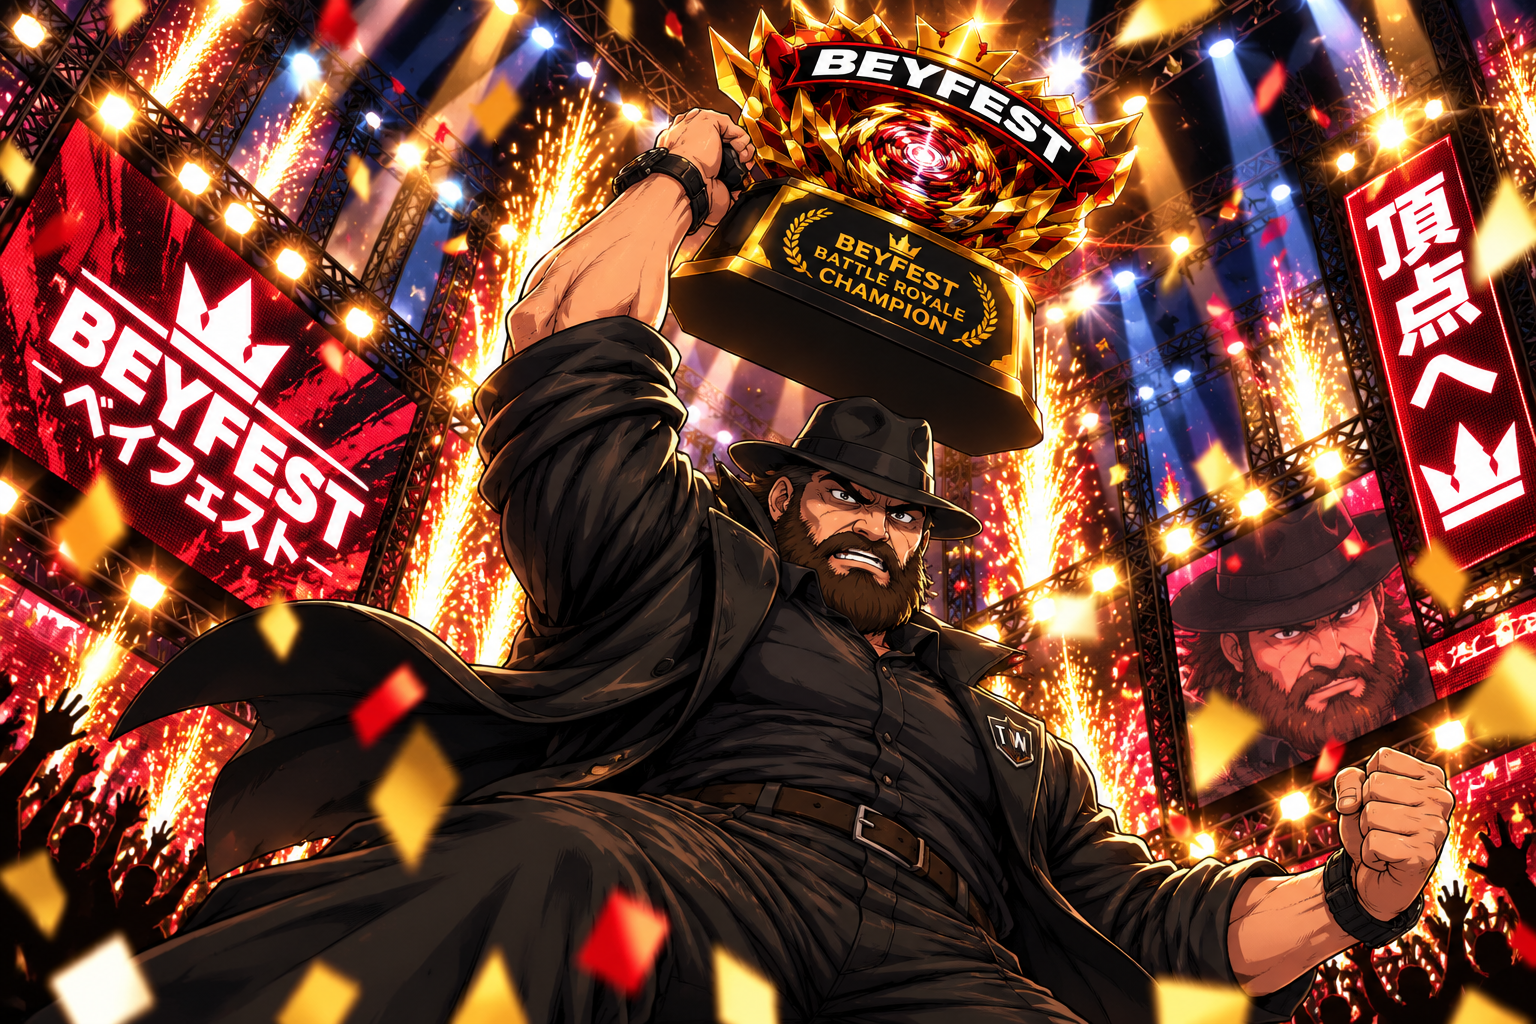
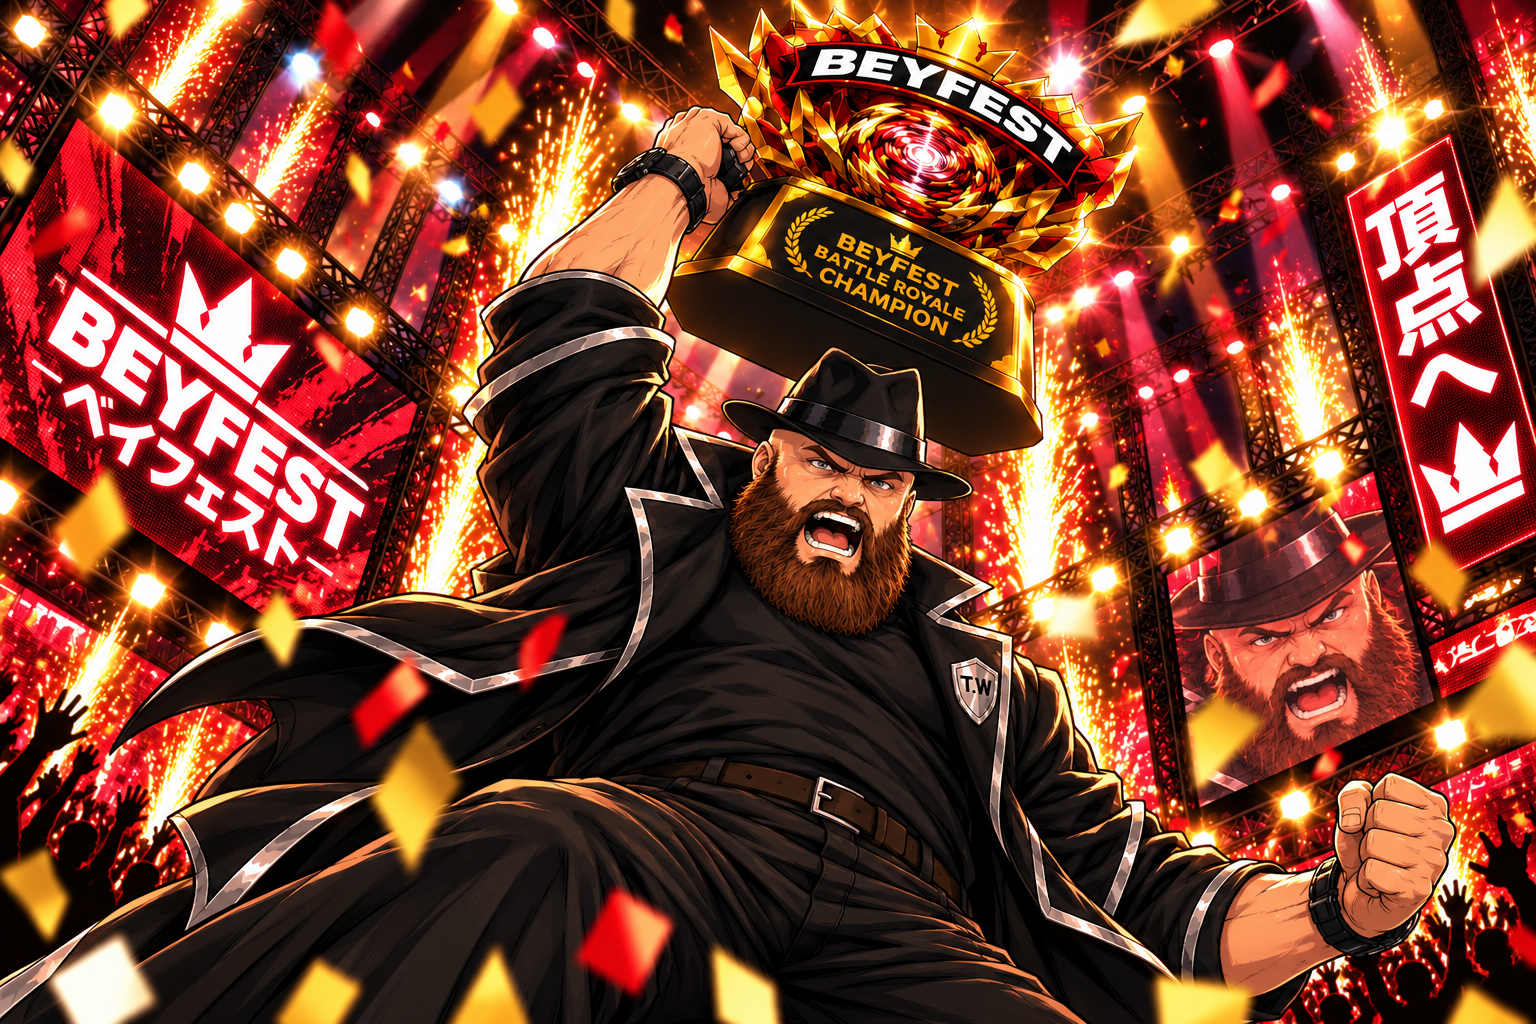
new Torque Warden victory and royale victory images to match the new design

diff --git a/fighter-art/prompts/torquewarden.md b/fighter-art/prompts/torquewarden.md
@@ -32,3 +32,23 @@ Moss alone). The user's poster (`5-concept-poster.jpg`) set the camera and pose 
 
 - A small, symmetric crown in the Beyblade's centre.
 - Cracked floor rubble along the bottom edge, which gives the launch some weight.
+
+## Badge mirror image (2026-10-28)
+
+`approved/torquewarden-mirrored.png`, made with
+`scripts/unflip-text.py … 935 346 941 428 32` (the shield's up axis in the new art).
+The plain flip reads "W.T"; the fixed one reads "T.W" with no visible seam. The royale
+lab with 8 fighters puts him on the flipped side and uses it.
+
+## Victory images (2026-10-28): approved
+
+Same recipe as the others: a new chat with the old victory image (scene template),
+`approved/torquewarden.png` (character) and the Pugilist head close-up (rendering).
+Both came out right first time.
+
+- The attachments landed in a different order, so the prompt named each image by
+  what it shows ("THE ARENA IMAGE…", "THE CUT-OUT ILLUSTRATION…") rather than by
+  position. That's the safer way to write these prompts.
+- Expression: "not smiling: a fierce, triumphant roar with the mouth open", which
+  suits his stern character better than a grin.
+- Victory images are never flipped, so the T.W badge on them needs no mirror image.
